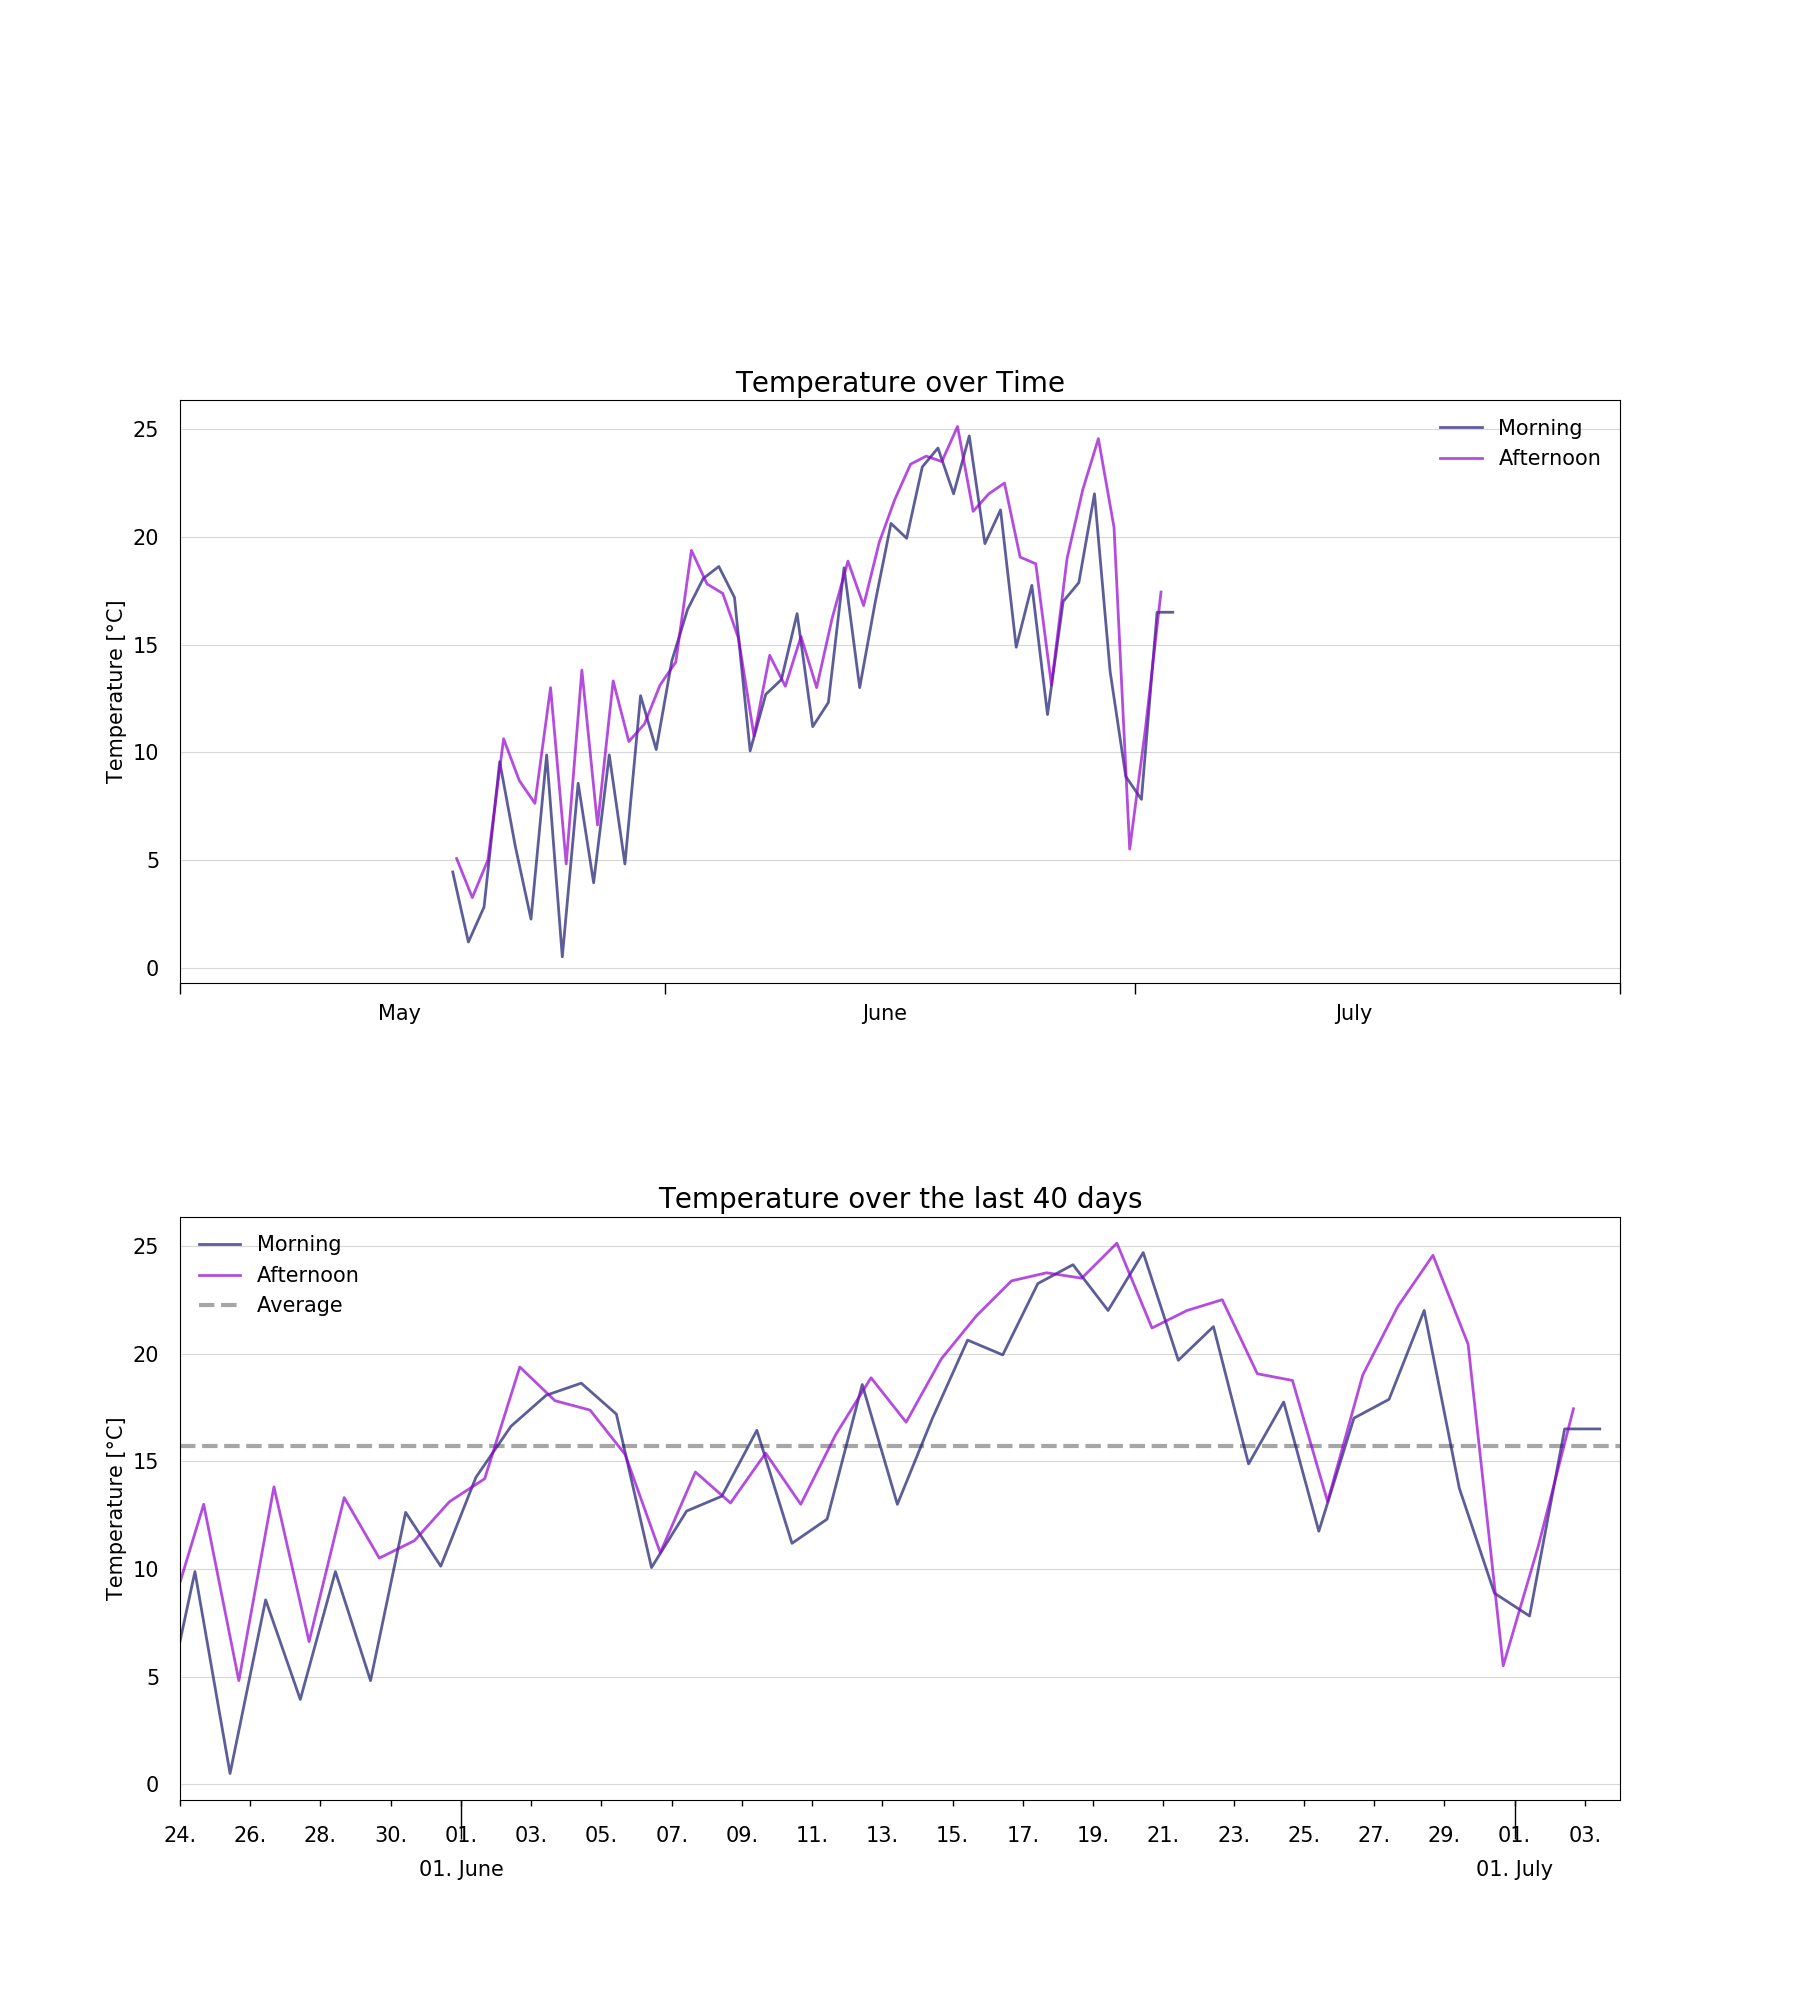
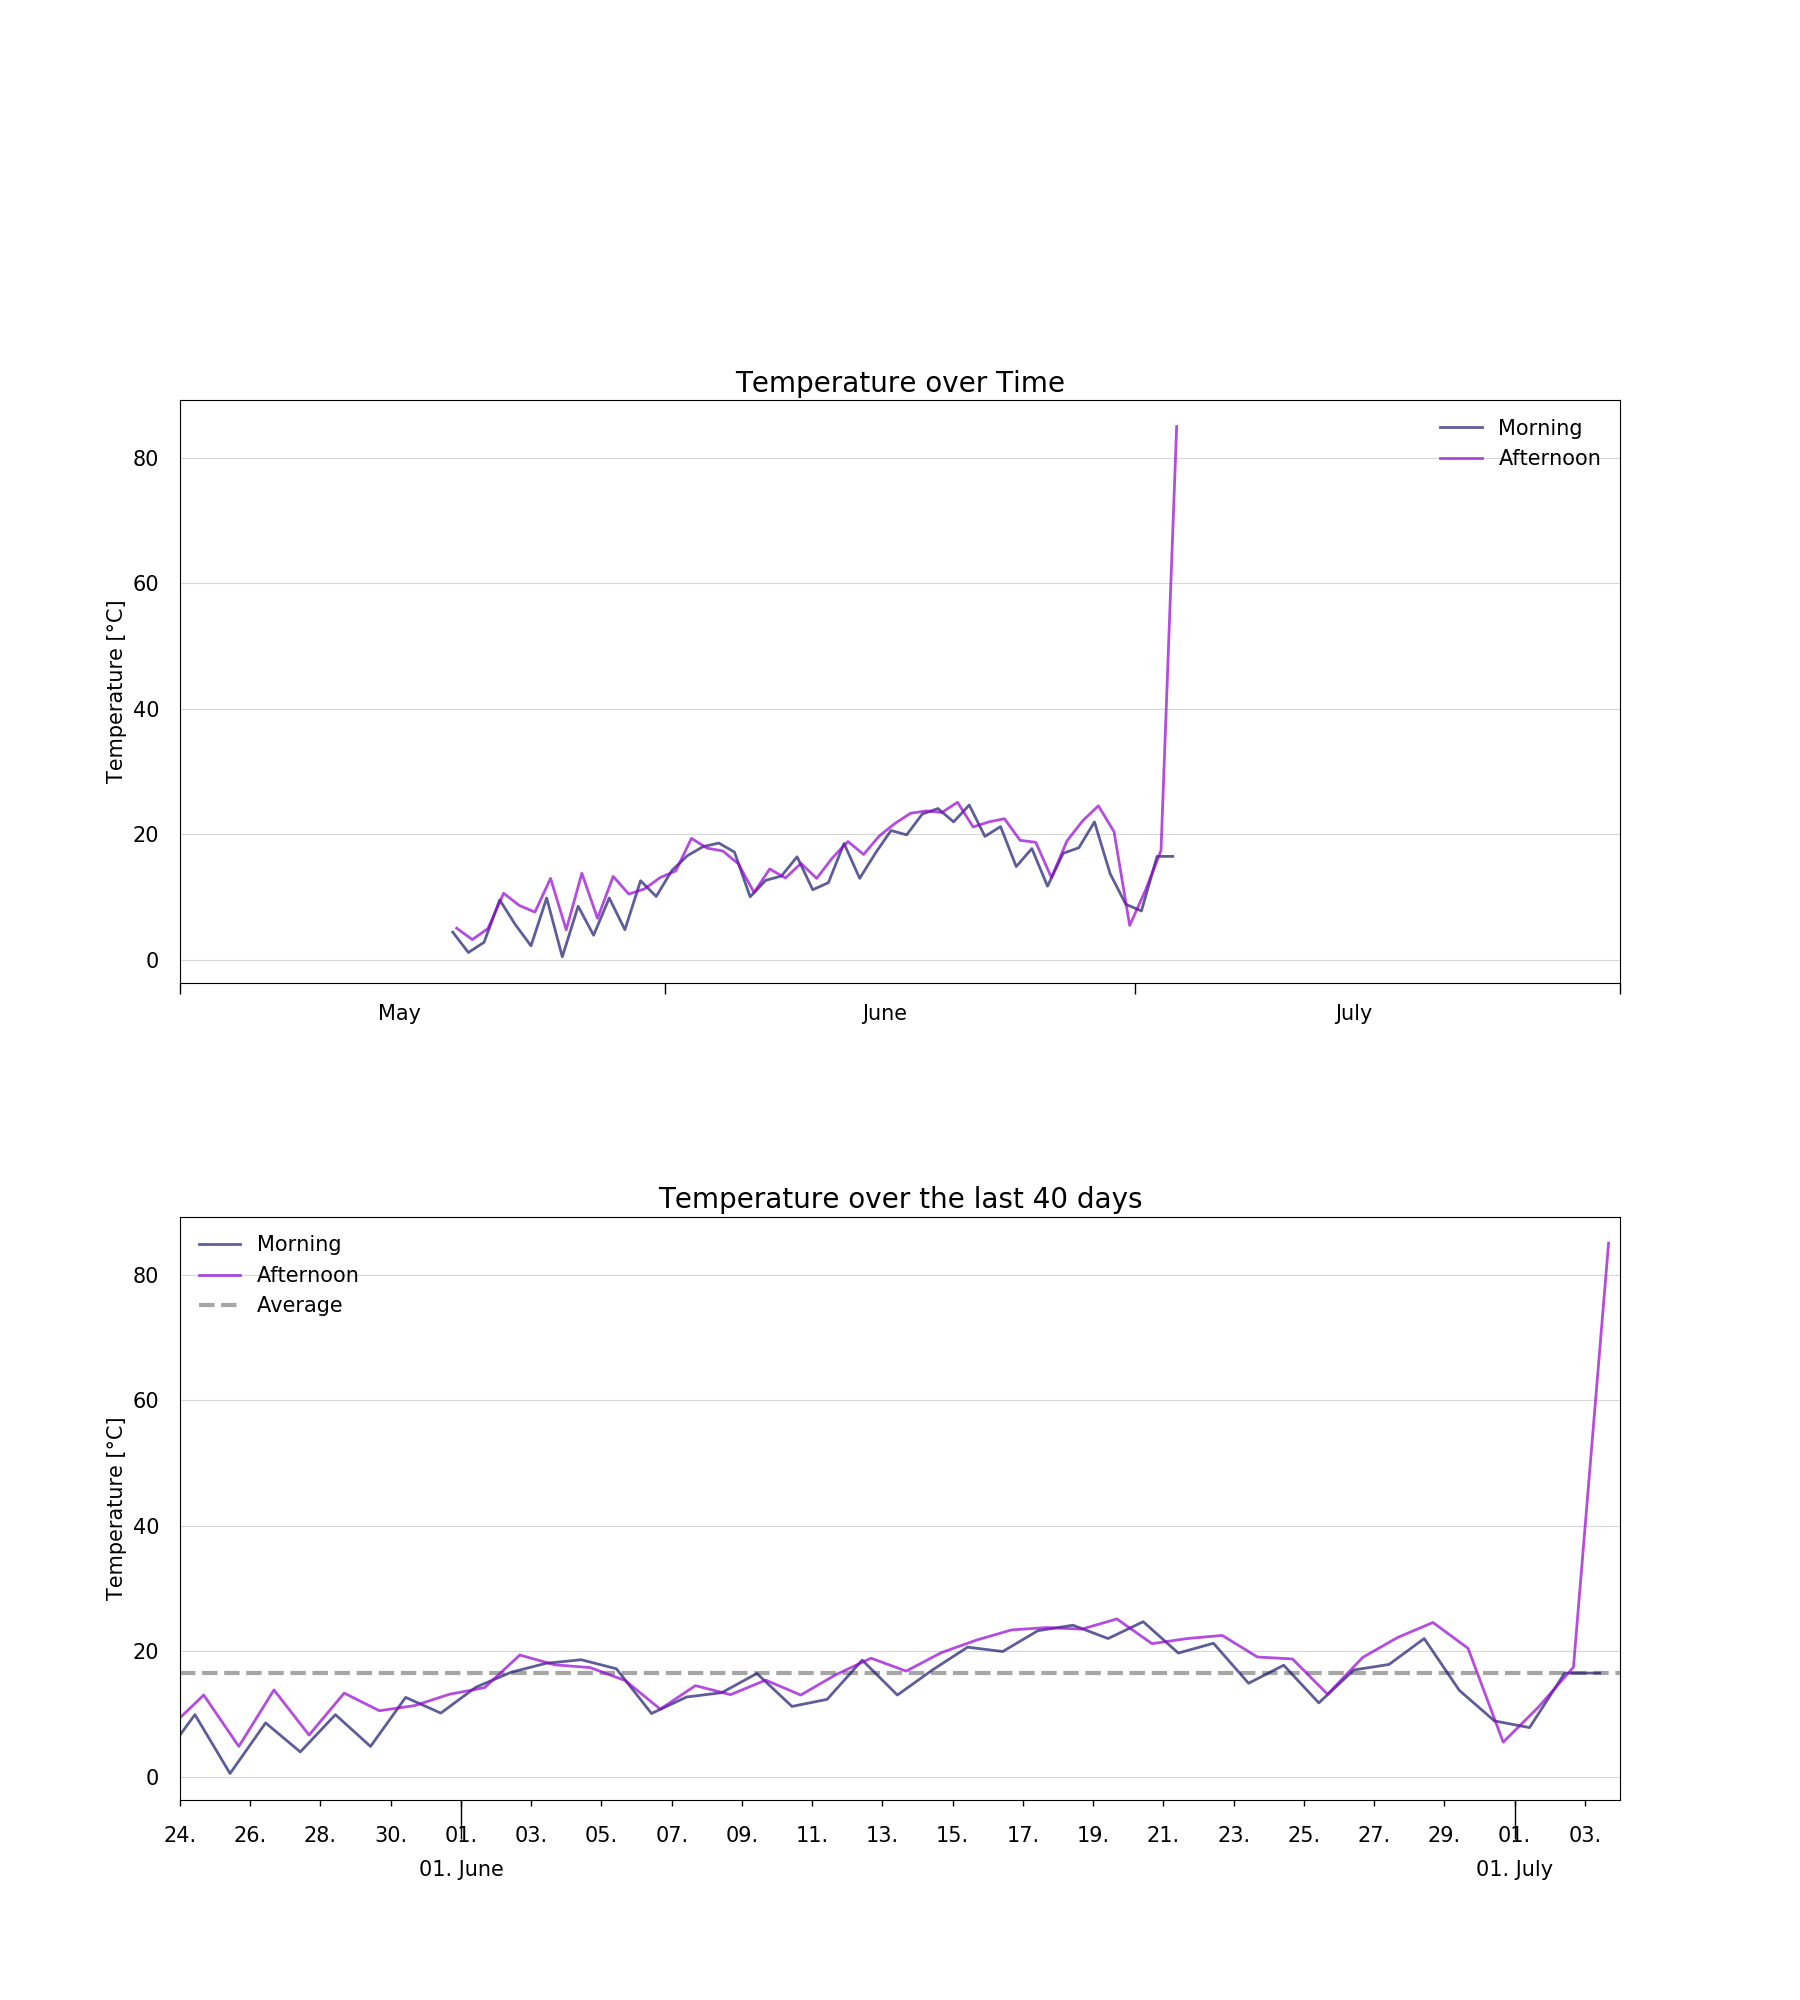
I'm a bot beep boop

diff --git a/resources/huette.md b/resources/huette.md
@@ -6,13 +6,13 @@ image: '/assets/img/'
 description: 'Live image from the Austrian alps'
 twitter_text: ' '
 ---
-## Latest image from 03 July 2021 at 10:12
+## Latest image from 03 July 2021 at 16:12
 <div class="huette">
   <div class="huette-image">
     <img src="{{ "/assets/img/huette.jpg" | prepend: site.baseurl }}">
   </div>
   <div class="huette-text">
-        <h2>Current Temperature: 16.5°C</h2>
+        <h2>Current Temperature: 85°C</h2>
         <p>A solar powered raspberry pi left alone in the wild is sending daily images and temperature data to this website. It should give you an impression about the current weather in the "Brixental".</p>
 
   </div>

diff --git a/rpi-script/huette.md b/rpi-script/huette.md
@@ -6,13 +6,13 @@ image: '/assets/img/'
 description: 'Live image from the Austrian alps'
 twitter_text: ' '
 ---
-## Latest image from 03 July 2021 at 10:12
+## Latest image from 03 July 2021 at 16:12
 <div class="huette">
   <div class="huette-image">
     <img src="{{ "/assets/img/huette.jpg" | prepend: site.baseurl }}">
   </div>
   <div class="huette-text">
-        <h2>Current Temperature: 16.5°C</h2>
+        <h2>Current Temperature: 85°C</h2>
         <p>A solar powered raspberry pi left alone in the wild is sending daily images and temperature data to this website. It should give you an impression about the current weather in the "Brixental".</p>
 
   </div>
